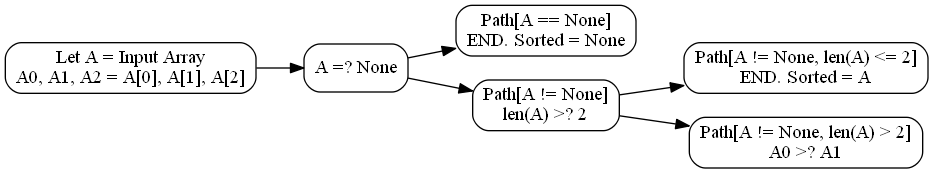
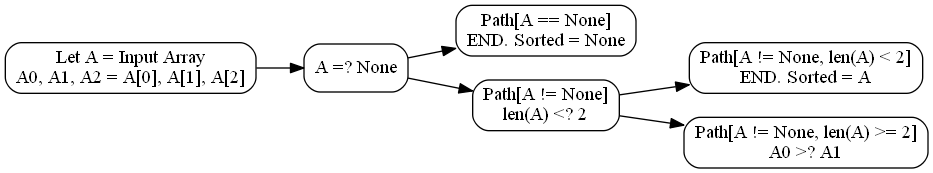
Preamble of bs_sort fixed. Shows len(A) <? 2 instead of len(A) >? 2.

diff --git a/python/original/utils/bs_graph_maker.py b/python/original/utils/bs_graph_maker.py
@@ -61,9 +61,9 @@ fout = open('..\\utils\\bs_depth_3.dot', 'w')
 fout.write('digraph G{\n')
 fout.write('\t"Let A = Input Array\\nA0, A1, A2 = A[0], A[1], A[2]" -> "A =? None";\n')
 fout.write('\t"A =? None" -> "Path[A == None]\\nEND. Sorted = None";\n')
-fout.write('\t"A =? None" -> "Path[A != None]\\nlen(A) >? 2";\n')
-fout.write('\t"Path[A != None]\\nlen(A) >? 2" -> "Path[A != None, len(A) <= 2]\\nEND. Sorted = A"\n')
-fout.write('\t"Path[A != None]\\nlen(A) >? 2" -> "Path[A != None, len(A) > 2]\\nA0 >? A1"\n')
+fout.write('\t"A =? None" -> "Path[A != None]\\nlen(A) <? 2";\n')
+fout.write('\t"Path[A != None]\\nlen(A) <? 2" -> "Path[A != None, len(A) < 2]\\nEND. Sorted = A"\n')
+fout.write('\t"Path[A != None]\\nlen(A) <? 2" -> "Path[A != None, len(A) >= 2]\\nA0 >? A1"\n')
 
 # Main branches with edges
 for source, target in edges:
